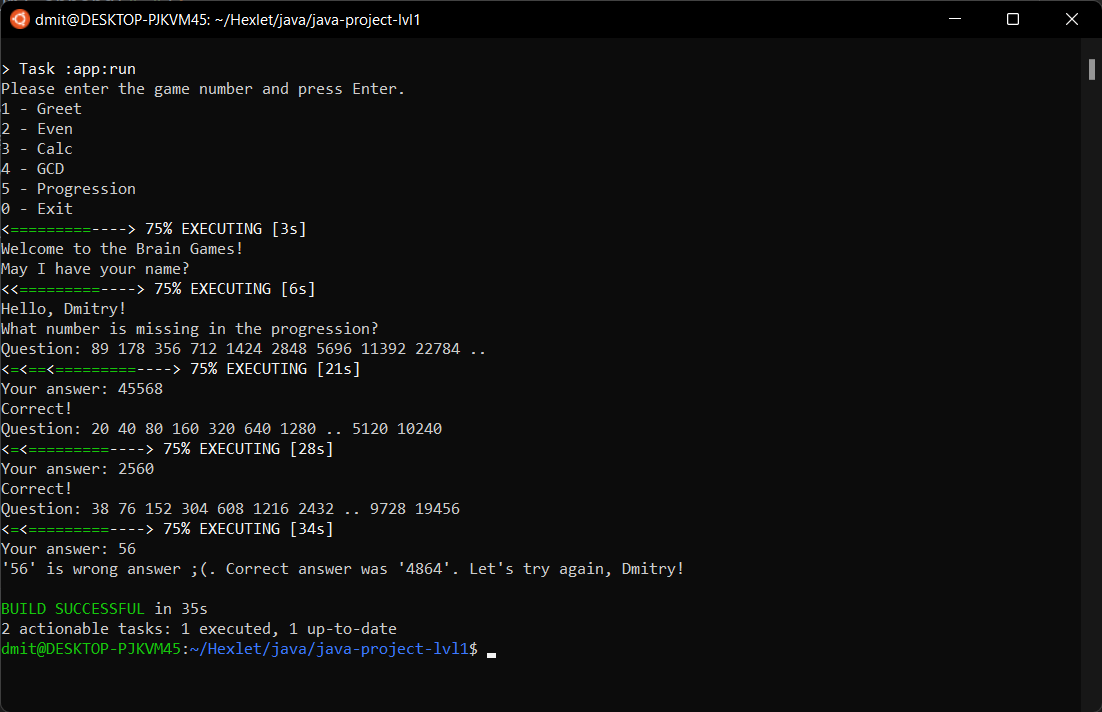
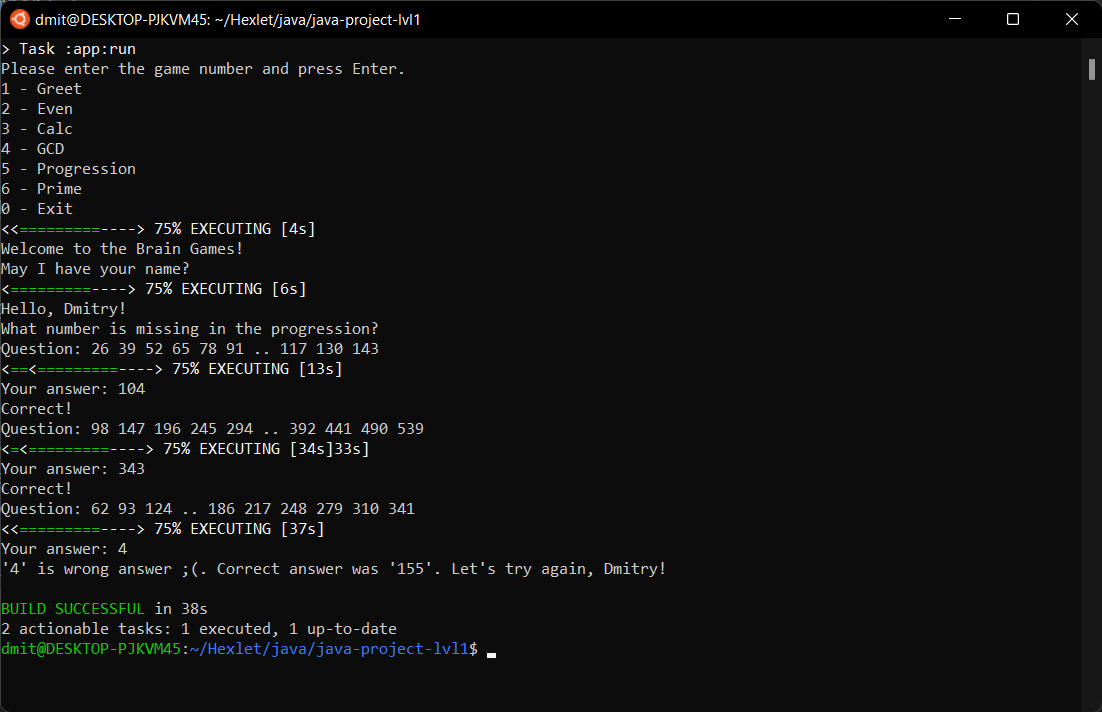
Изменил версию джава и исправил игру с прогрессией

diff --git a/app/src/main/java/hexlet/code/games/Progression.java b/app/src/main/java/hexlet/code/games/Progression.java
@@ -11,6 +11,7 @@ public class Progression {
         String[] progress = new String[arrayLength];
         int count = 0;
         int number;
+        int numberProgression;
         int missedNumber;
         String correctAnswer = "";
         StringBuilder question;
@@ -19,15 +20,16 @@ public class Progression {
             question = new StringBuilder();
             missedNumber = (int) (Math.random() * progress.length);
             number = (int) (Math.random() * Engine.MULTIPLIER);
+            numberProgression = number;
 
             for (int i = 0; i < progress.length; i++) {
                 if (i != missedNumber) {
-                    progress[i] = String.valueOf(number);
+                    progress[i] = String.valueOf(number + numberProgression);
                 } else {
                     progress[i] = "..";
-                    correctAnswer = String.valueOf(number);
+                    correctAnswer = String.valueOf(number + numberProgression);
                 }
-                number += number;
+                 number += numberProgression;
             }
 
             for (String num : progress) {

diff --git a/app/src/main/java/hexlet/code/App.java b/app/src/main/java/hexlet/code/App.java
@@ -20,13 +20,26 @@ public class App {
         int gameNum = Engine.scanInt();
 
         switch (gameNum) {
-            case Engine.GET_GREETING -> Engine.getGreeting();
-            case Engine.IS_EVEN -> Even.isEven();
-            case Engine.CALCULATE -> Calc.calculate();
-            case Engine.GCD -> GCD.gcd();
-            case Engine.PROGRESSION -> Progression.progression();
-            case Engine.IS_PRIME -> Prime.isPrime();
-            default -> System.exit(0);
+            case Engine.GET_GREETING :
+                Engine.getGreeting();
+                break;
+            case Engine.IS_EVEN :
+                Even.isEven();
+
+            case Engine.CALCULATE :
+                Calc.calculate();
+                break;
+            case Engine.GCD :
+                GCD.gcd();
+                break;
+            case Engine.PROGRESSION :
+                Progression.progression();
+                break;
+            case Engine.IS_PRIME :
+                Prime.isPrime();
+                break;
+            default :
+                System.exit(0);
         }
     }
 }

diff --git a/app/src/main/java/hexlet/code/games/Calc.java b/app/src/main/java/hexlet/code/games/Calc.java
@@ -23,11 +23,17 @@ public class Calc {
             String input = Engine.makeQuestion((number1 + " " + operation[operationNum] + " "
                     + number2));
 
-            correctAnswer = switch (operationNum) {
-                case 1 -> String.valueOf(number1 + number2);
-                case 2 -> String.valueOf(number1 - number2);
-                default -> String.valueOf(number1 * number2);
-            };
+            switch (operationNum) {
+                case 1 :
+                    correctAnswer = String.valueOf(number1 + number2);
+                    break;
+                case 2 :
+                    correctAnswer = String.valueOf(number1 - number2);
+                    break;
+                default :
+                    correctAnswer = String.valueOf(number1 * number2);
+                    break;
+            }
             if (input.equals(correctAnswer)) {
                 Engine.correctAnswer();
             } else {
